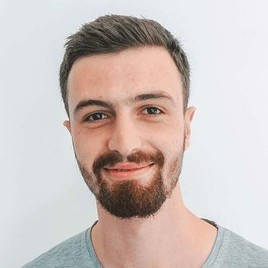
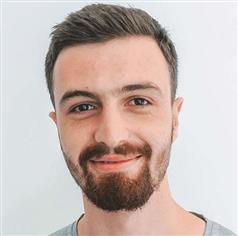
Optimized images

diff --git a/_site/index.html b/_site/index.html
@@ -11,8 +11,8 @@
   <meta name="viewport" content="width=device-width, initial-scale=1.0">
 
   <link rel="shortcut icon" href="assets/img/favicon.ico">
-  <link rel="stylesheet" href="assets/css/main.css" >
-  <link href="https://cdn.rawgit.com/michalsnik/aos/2.1.1/dist/aos.css" rel="stylesheet">
+  <link rel="stylesheet" type="text/css" href="assets/css/main.css" >
+  <link href="https://cdn.rawgit.com/michalsnik/aos/2.1.1/dist/aos.css" type="text/css" rel="stylesheet">
 
   <!--[if lt IE 9]>
     <script src="//html5shiv.googlecode.com/svn/trunk/html5.js"></script>
@@ -22,18 +22,18 @@
 <body>
 
 <header>
-  <div class="logo"><svg xmlns="http://www.w3.org/2000/svg" enable-background="new 0 0 50 50" style="width: 50px; height: 50px;" ><path fill="rgba(0, 0, 0, 0.7)" d="M25 0c-13.807 0-25 11.193-25 25s11.193 25 25 25 25-11.193 25-25-11.193-25-25-25zm-6.435 43l4.599-15.033h-10.164l19.434-20.967-4.599 14.983h10.164l-19.434 21.017z"/></svg>
+  <div class="logo" data-aos="fade-in" data-aos-duration="3000"><svg xmlns="http://www.w3.org/2000/svg" enable-background="new 0 0 50 50" style="width: 50px; height: 50px;" ><path fill="rgba(0, 0, 0, 0.7)" d="M25 0c-13.807 0-25 11.193-25 25s11.193 25 25 25 25-11.193 25-25-11.193-25-25-25zm-6.435 43l4.599-15.033h-10.164l19.434-20.967-4.599 14.983h10.164l-19.434 21.017z"/></svg>
 </div>
 
   <nav>
     
-      <a href="#about">About Me</a>
+      <a href="#about" data-aos="fade-in" data-aos-duration="3000">About Me</a>
     
-      <a href="#work">Work</a>
+      <a href="#work" data-aos="fade-in" data-aos-duration="3000">Work</a>
     
-      <a href="#clients">Testimonial</a>
+      <a href="#clients" data-aos="fade-in" data-aos-duration="3000">Testimonial</a>
     
-      <a href="#contact">Contact</a>
+      <a href="#contact" data-aos="fade-in" data-aos-duration="3000">Contact</a>
     
   </nav>
 
@@ -492,13 +492,13 @@
   <h3 id="contact" data-aos="fade-up" data-aos-duration="3000">Contact</h3>
   <div class="social-links" data-aos="fade-up" data-aos-duration="3000">
     
-      <a href="https://github.com/fisnikcanaj1" target="_blank" class="icon-github"></a>
+      <a href="https://github.com/fisnikcanaj1" class="icon-github"></a>
     
-      <a href="https://www.facebook.com/fcanaj2" target="_blank" class="icon-facebook"></a>
+      <a href="https://www.facebook.com/fcanaj2" class="icon-facebook"></a>
     
-      <a href="https://www.linkedin.com/in/fisnik-canaj-687699b8" target="_blank" class="icon-linkedin"></a>
+      <a href="https://www.linkedin.com/in/fisnik-canaj-687699b8" class="icon-linkedin"></a>
     
-      <a href="https://www.instagram.com/fisnikcanaj" target="_blank" class="icon-instagram"></a>
+      <a href="https://www.instagram.com/fisnikcanaj" class="icon-instagram"></a>
     
   </div>
   <hr class="bar" data-aos="fade-up" data-aos-duration="3000">
@@ -567,10 +567,10 @@
 
 
 
-<script src="assets/js/jquery-2.1.1.min.js"></script>
+<script src="assets/js/jquery-2.1.1.min.js" ></script>
 <script src="assets/js/functions.js" type="text/javascript"></script>
-<script src="https://cdn.rawgit.com/michalsnik/aos/2.1.1/dist/aos.js"></script>
-<script>
+<script src="https://cdn.rawgit.com/michalsnik/aos/2.1.1/dist/aos.js" type="text/javascript"></script>
+<script type="text/javascript">
   AOS.init();
 </script>
 </body>

diff --git a/index.html b/index.html
@@ -14,8 +14,8 @@
   <meta name="viewport" content="width=device-width, initial-scale=1.0">
 
   <link rel="shortcut icon" href="assets/img/favicon.ico">
-  <link rel="stylesheet" href="assets/css/main.css" >
-  <link href="https://cdn.rawgit.com/michalsnik/aos/2.1.1/dist/aos.css" rel="stylesheet">
+  <link rel="stylesheet" type="text/css" href="assets/css/main.css" >
+  <link href="https://cdn.rawgit.com/michalsnik/aos/2.1.1/dist/aos.css" type="text/css" rel="stylesheet">
 
   <!--[if lt IE 9]>
     <script src="//html5shiv.googlecode.com/svn/trunk/html5.js"></script>
@@ -41,10 +41,10 @@
 {% include footer.html %}
 
 
-<script src="assets/js/jquery-2.1.1.min.js"></script>
+<script src="assets/js/jquery-2.1.1.min.js" ></script>
 <script src="assets/js/functions.js" type="text/javascript"></script>
-<script src="https://cdn.rawgit.com/michalsnik/aos/2.1.1/dist/aos.js"></script>
-<script>
+<script src="https://cdn.rawgit.com/michalsnik/aos/2.1.1/dist/aos.js" type="text/javascript"></script>
+<script type="text/javascript">
   AOS.init();
 </script>
 </body>

diff --git a/_includes/contact.html b/_includes/contact.html
@@ -3,7 +3,7 @@
   <h3 id="contact" data-aos="fade-up" data-aos-duration="3000">Contact</h3>
   <div class="social-links" data-aos="fade-up" data-aos-duration="3000">
     {% for link in site.data.settings.social-links %}
-      <a href="{{link.link}}" target="_blank" class="icon-{{link.name}}"></a>
+      <a href="{{link.link}}" class="icon-{{link.name}}"></a>
     {% endfor %}
   </div>
   <hr class="bar" data-aos="fade-up" data-aos-duration="3000">

diff --git a/_includes/header.html b/_includes/header.html
@@ -1,9 +1,9 @@
 <header>
-  <div class="logo">{% include icones/logo.html %}</div>
+  <div class="logo" data-aos="fade-in" data-aos-duration="3000">{% include icones/logo.html %}</div>
 
   <nav>
     {% for item in site.data.settings.menu %}
-      <a href="{{item.url}}">{{item.name}}</a>
+      <a href="{{item.url}}" data-aos="fade-in" data-aos-duration="3000">{{item.name}}</a>
     {% endfor %}
   </nav>
 

diff --git a/_site/assets/js/functions.js b/_site/assets/js/functions.js
@@ -48,6 +48,7 @@ function workBelt(){
 
 function workLoad(){
 
+	$.ajaxSetup({ cache: false });
 
 	$('.thumb-unit').click(function(){
 

diff --git a/assets/js/functions.js b/assets/js/functions.js
@@ -48,6 +48,7 @@ function workBelt(){
 
 function workLoad(){
 
+	$.ajaxSetup({ cache: false });
 
 	$('.thumb-unit').click(function(){
 
